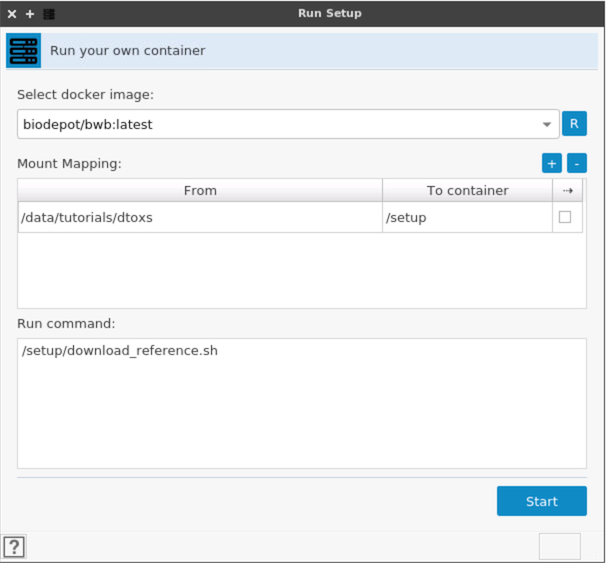
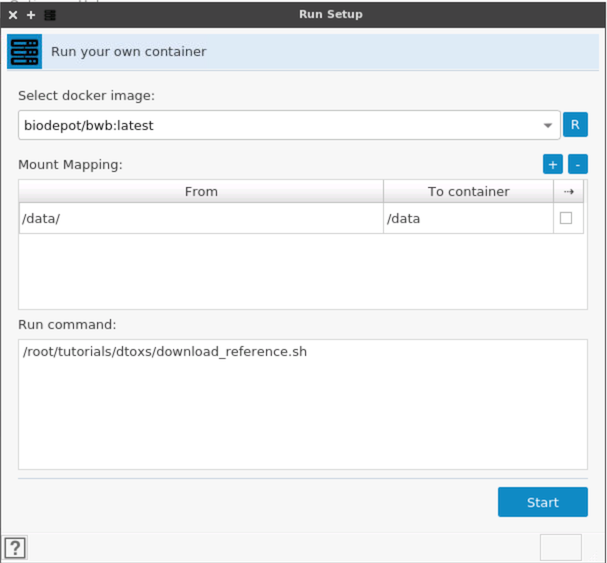
update dtoxs tutorial

Changed region(s): [[0.0, 0.0, 1.0, 1.0], [0.297, 0.3321, 0.3564, 0.3623]]

diff --git a/Tutorials/dtoxs/README.md b/Tutorials/dtoxs/README.md
@@ -2,23 +2,11 @@
 # Tutorial: Dtoxs workflow
 
 ## Preparation 
-Start the [Terminal] inside the Bwb desktop.
 
-![terminal](media/dtoxs_tutorial_start_terminal.png)
+## Run [setup] workflow
 
-## Copy tutorial folder to /data
-Inside the Bwb container, the tutorial folder locate at `/root/tutorials`, copy this folder to /data (which mounted from the host).
-
-Command:
-```
-cp -r /root/tutorials /data
-```
-
-![cp](media/dtoxs_tutorial_cp.png)
-
-## Run setup workflow
 The setup workflow helps to download reference data for running Dtoxs workflow.
-Open `setup.ows` workflow in `/data/tutorials/dtoxs`, then run this workflow which will fetch the data automatically.
+Open `/root/tutorials/dtoxs/Setup.ows` workflow, then run this workflow which will prepare the data for dtoxs tutorial.
 
 ![setup1](media/dtoxs_tutorial_setup.png)
 
@@ -26,6 +14,7 @@ Open `setup.ows` workflow in `/data/tutorials/dtoxs`, then run this workflow whi
 
 
 ## Run pipeline
-Open `dtoxs.ows` workflow in `/data/tutorials/dtoxs`, the workflow will be started automatically (Be sure the setup workflow was run before run dtoxs workflow, otherwise there will be no results since the input data is not ready). Once the alignment was finished, start the analysis step by double click the [Dtoxs Analysis] icon and [Run].
+
+Open `/data/tutorials/dtoxs/dtoxs.ows` workflow, the workflow will be started automatically (Be sure the setup workflow was run before the Dtoxs pipeline, otherwise there will be no results since the input data is not ready). Once the alignment was finished, start the analysis step by double click the [Dtoxs Analysis] icon and [Run].
 
 ![run](media/dtoxs_tutorial_runpipeline.png)
